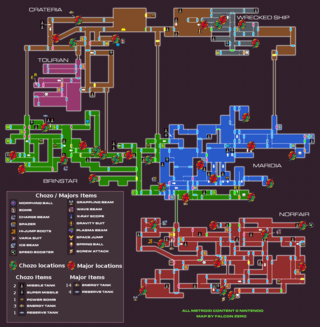
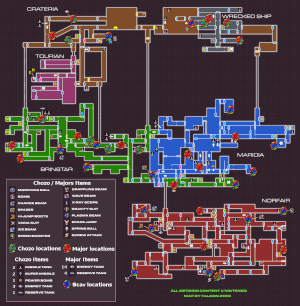
rando: update majors split map with scavenger location (thanks Kyzentun)

Changed region(s): [[0.0, 0.0, 0.99, 1.0], [0.36, 0.0, 0.45, 0.0294]]

diff --git a/web/views/randomizer.html b/web/views/randomizer.html
@@ -1420,12 +1420,12 @@ Tournament presets:\
       element: "#majorsSplitStep",
       title: "Majors Split",
       content: "<p>Choose how you want to split the Majors and the Minors items:\
-<ul><li>Full: All items are shuffled in all locations</li>\
-<li>Full Countdown: Randomize like Full and display in the HUD the number of remaining unique upgrades (everything but energy and ammo) in the current area. See \"VARIA HUD\" comfort patch help in the advanced tab for more information about it.</li>\
-<li>Majors/Minors: Use major (unique upgrades and energy) and minor (ammo) item pools.</p><p><b>Note:</b> High-Jump boots Energy Tank location is considered minor, and right Super Missile in Wrecked ship is considered major for balancing purposes.</li>\
-<li>Chozo: Put all unique upgrades as well as minimal ammo/energy to finish the seed in the Chozo locations. These are Chozo statues, Morph Ball and boss item locations (Right Super in Wrecked Ship, Varia Suit, Ridley ETank). Depending on progression speed and item distribution settings, you will be able to 'sequence break' by going to other locations as well.</li>\
-<li>Scavenger: You must visit a given number of locations in a mandatory order in a scavenger hunt, and collect items there. The scavenger locations are the 16 locations where a unique upgrade is in the vanilla game, plus Ridley. By default items in the mandatory locations will be vanilla. Other unique upgrades will be randomized between the remaining scavenger locations. By default, you will have to collect all items in the mandatory locations to access Tourian (on top of killing the Golden 4 bosses). You can also choose to trigger the escape immediately after the hunt is over.<br/>The next mandatory location will be displayed in the HUD, and the whole route will be displayed in the HUD during pause (see \"VARIA HUD\" comfort patch help in the advanced tab for more information).</li></ul></p>\
-<p>Check the map for the list of Majors and Chozo locations and items:<br/><a href=\"/solver/static/images/help/chozo_map.png\" class=\"highslide\" onclick=\"return hs.expand(this, {wrapperClassName: 'borderless', dimmingOpacity: 0.75, align: 'center'})\"><div class=\"parent-center\"><img id=\"chozoThumb\" src=\"/solver/static/images/help/chozo_map_thumbnail.png\" alt=\"Chozo Map\" title=\"Click to enlarge\" class=\"child-center half\"/></div></a></p>\
+<ul><li><b>Full</b>: All items are shuffled in all locations</li>\
+<li><b>Full Countdown</b>: Randomize like Full and display in the HUD the number of remaining unique upgrades (everything but energy and ammo) in the current area. See \"VARIA HUD\" comfort patch help in the advanced tab for more information about it.</li>\
+<li><b>Majors/Minors</b>: Use major (unique upgrades and energy) and minor (ammo) item pools.</p><p><b>Note:</b> High-Jump boots Energy Tank location is considered minor, and right Super Missile in Wrecked ship is considered major for balancing purposes.</li>\
+<li><b>Chozo</b>: Put all unique upgrades as well as minimal ammo/energy to finish the seed in the Chozo locations. These are Chozo statues, Morph Ball and boss item locations (Right Super in Wrecked Ship, Varia Suit, Ridley ETank). Depending on progression speed and item distribution settings, you will be able to 'sequence break' by going to other locations as well.</li>\
+<li><b>Scavenger</b>: You must visit a given number of locations in a mandatory order in a scavenger hunt, and collect items there. The scavenger locations are the 16 locations where a unique upgrade is in the vanilla game, plus Ridley. By default items in the mandatory locations will be vanilla. Other unique upgrades will be randomized between the remaining scavenger locations. By default, you will have to collect all items in the mandatory locations to access Tourian (on top of killing the Golden 4 bosses). You can also choose to trigger the escape immediately after the hunt is over.<br/>The next mandatory location will be displayed in the HUD, and the whole route will be displayed in the HUD during pause (see \"VARIA HUD\" comfort patch help in the advanced tab for more information).</li></ul></p>\
+<p>Check the map for the list of Majors, Chozo and Scavenger locations and items:<br/><a href=\"/solver/static/images/help/chozo_map.png\" class=\"highslide\" onclick=\"return hs.expand(this, {wrapperClassName: 'borderless', dimmingOpacity: 0.75, align: 'center'})\"><div class=\"parent-center\"><img id=\"chozoThumb\" src=\"/solver/static/images/help/chozo_map_thumbnail.png\" alt=\"Chozo Map\" title=\"Click to enlarge\" class=\"child-center half\"/></div></a></p>\
 <p>Using a non-standard or randomized start location and any other split than 'Full' will enable the VARIA HUD, as Major/Chozo locations are slightly modified depending on the start location.</p>\
 <p>Click on the dice button to randomly set this parameter.</p>"
     },
